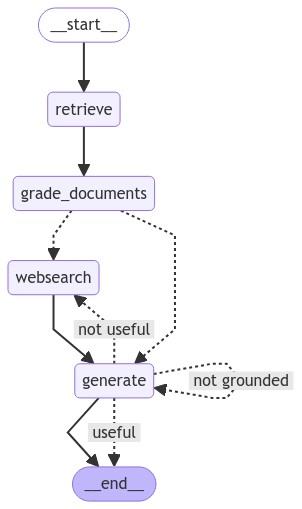
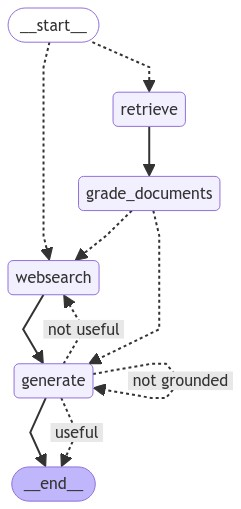
feat: Add router.py for routing user queries to relevant datasources

diff --git a/graph/graph.py b/graph/graph.py
@@ -14,6 +14,7 @@ from graph.chains.hallucination_grader import hallucination_grader_chain
 from graph.constants import RETRIEVE, GRADE_DOCUMENTS, WEB_SEARCH, GENERATE
 from graph.nodes import retrieve, grade_documents, web_search, generate
 from graph.state import GraphState
+from graph.chains.router import question_router_chain, RouteQuery
 
 
 def decide_to_generate(state):
@@ -58,6 +59,18 @@ def grade_generation_grounded_in_documents_and_question(state: GraphState) -> st
         return "not grounded"
 
 
+def route_question(state: GraphState) -> str:
+    print("---Route Question---")
+    question = state["question"]
+    route: RouteQuery = question_router_chain.invoke(input={"question": question})
+    if route.datasource == WEB_SEARCH:
+        print("---Route Question to Web Search---")
+        return WEB_SEARCH
+    elif route.datasource == "vectorstore":
+        print("---Route Question to Vectorstore---")
+        return RETRIEVE
+
+
 workflow = StateGraph(GraphState)
 
 workflow.add_node(RETRIEVE, retrieve)
@@ -65,7 +78,12 @@ workflow.add_node(GRADE_DOCUMENTS, grade_documents)
 workflow.add_node(WEB_SEARCH, web_search)
 workflow.add_node(GENERATE, generate)
 
-workflow.set_entry_point(RETRIEVE)
+# workflow.set_entry_point(RETRIEVE)
+
+workflow.set_conditional_entry_point(
+    route_question, path_map={WEB_SEARCH: WEB_SEARCH, RETRIEVE: RETRIEVE}
+)
+
 workflow.add_edge(RETRIEVE, GRADE_DOCUMENTS)
 workflow.add_conditional_edges(
     GRADE_DOCUMENTS,

diff --git a/graph/chains/tests/test_chains.py b/graph/chains/tests/test_chains.py
@@ -1,11 +1,13 @@
 # def test_foo() -> None: # Run file using "pytest . -s -v"
 #     assert 1==1
 
-# import os
-# import sys
-# from dotenv import load_dotenv, find_dotenv
+import os
+import sys
+sys.path.append(os.getcwd())
 
-# load_dotenv(find_dotenv(), override=True)
+from dotenv import load_dotenv, find_dotenv
+
+load_dotenv(find_dotenv(), override=True)
 
 # print(os.getcwd())
 
@@ -81,5 +83,11 @@ def test_router_to_vectorstore() -> None:
     response=question_router_chain.invoke(input={"question": question}) 
     
     assert response.datasource=="vectorstore"
+    
+def test_router_to_websearch() -> None: 
+    question="how to make a pizza?" 
+    response=question_router_chain.invoke(input={"question": question}) 
+    
+    assert response.datasource=="websearch"
 
 # Run file using "pytest . -s -v" in the terminal
